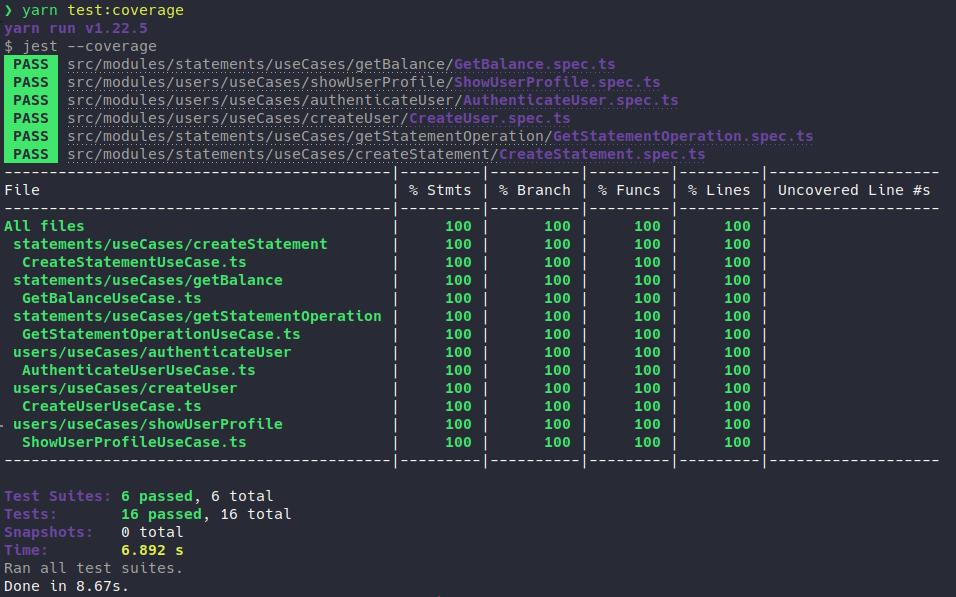
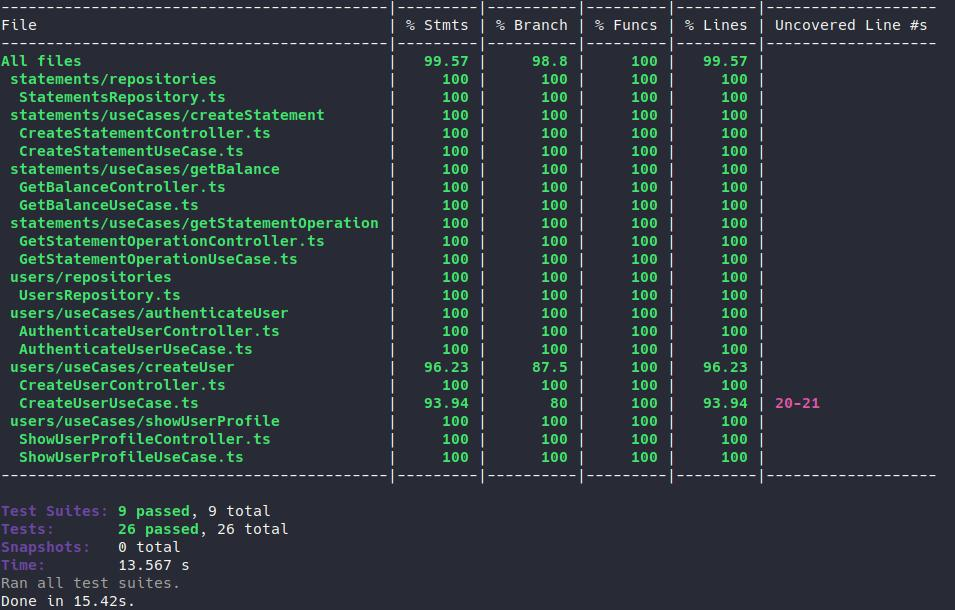
fix bugs on testing; insert new tests img

Changed region(s): [[0.0, 0.0, 0.9717, 0.7839], [0.0, 0.8141, 0.3037, 0.995]]

diff --git a/src/__tests__/statements.spec.ts b/src/__tests__/statements.spec.ts
@@ -77,13 +77,15 @@ describe('[Statements]', () => {
     await statementsUtil.create({
       user_id,
       amount: depositAmount,
-      type: 'deposit' as OperationType
+      type: 'deposit' as OperationType,
+      target_id: undefined
     })
 
     await statementsUtil.create({
       user_id,
       amount: faker.datatype.number({ min: 0, max: depositAmount }),
-      type: 'withdraw' as OperationType
+      type: 'withdraw' as OperationType,
+      target_id: undefined
     })
 
     const response = await request(app)
@@ -135,7 +137,8 @@ describe('[Statements]', () => {
       amount: balance,
       type: 'deposit' as OperationType,
       description: faker.lorem.paragraph(),
-      user_id
+      user_id,
+      target_id: undefined
     })
 
     const response = await request(app)
